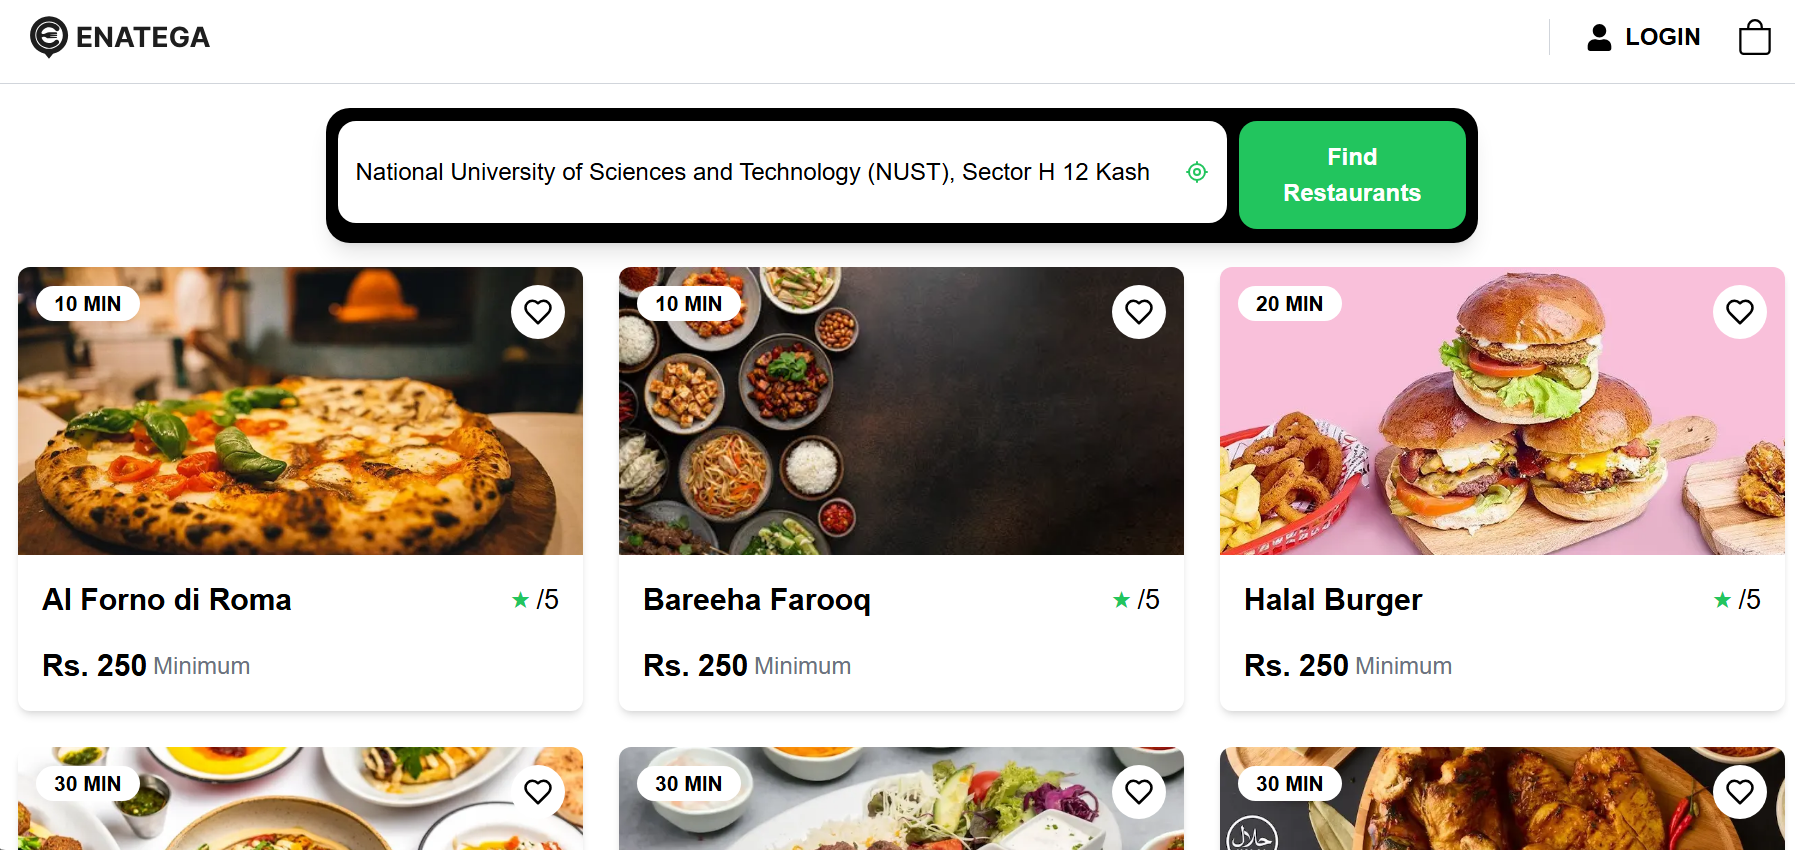
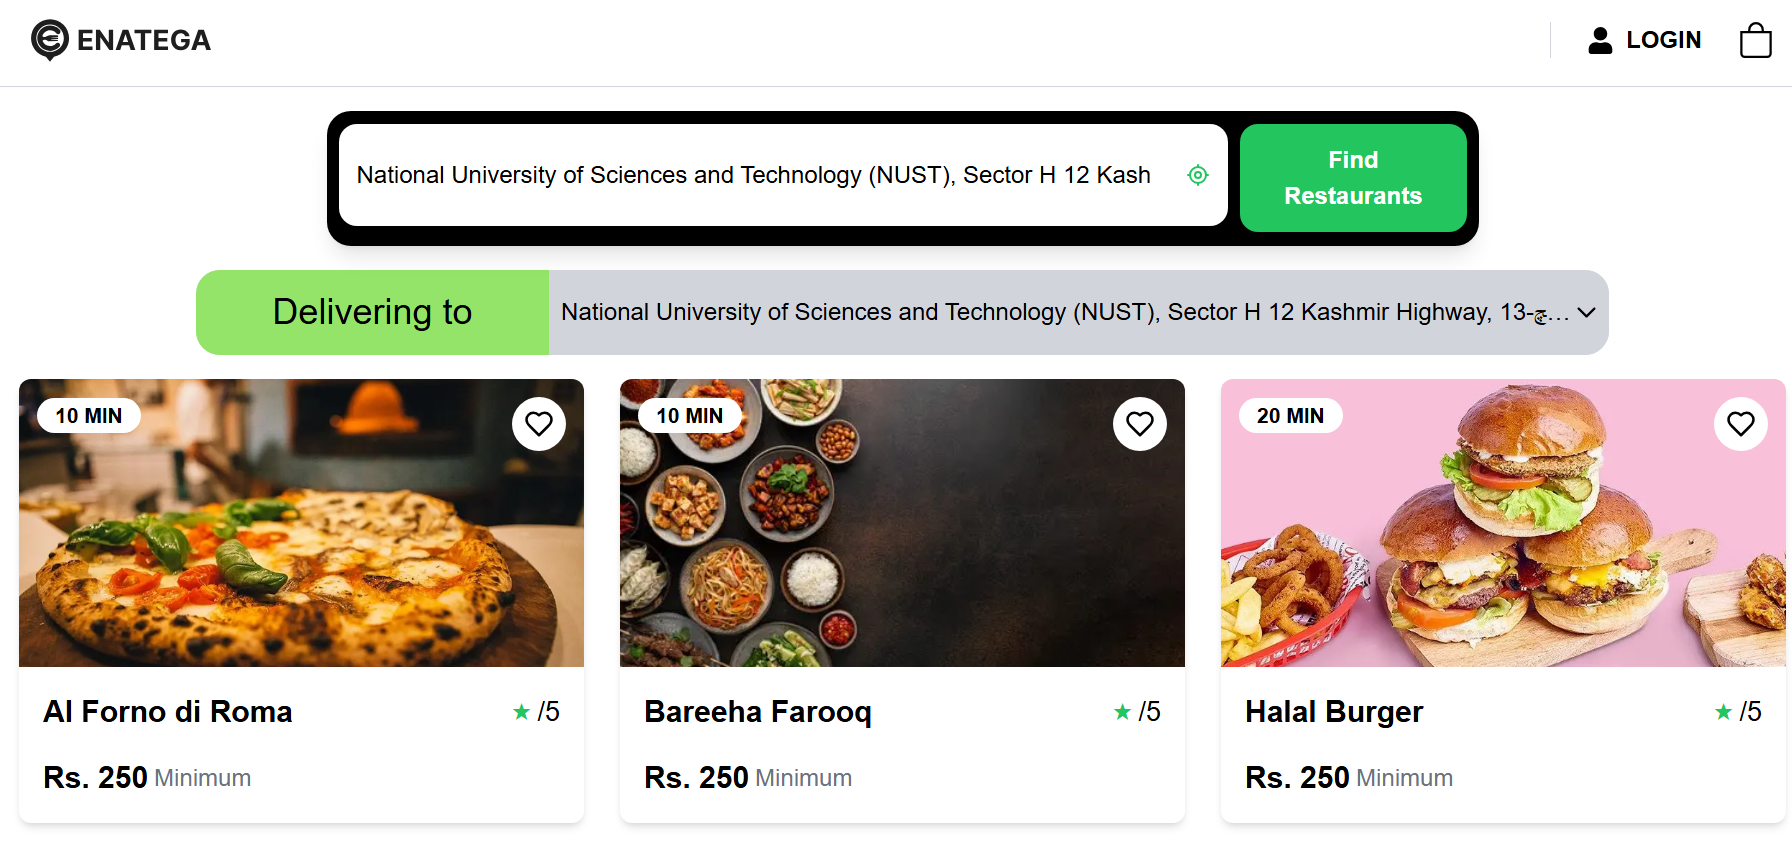
Job task

diff --git a/src/app/components/LocationSearch.tsx b/src/app/components/LocationSearch.tsx
@@ -4,7 +4,7 @@ import axios from "axios";
 import Image from "next/image";
 import { TbCurrentLocation } from "react-icons/tb";
 import NearbyResturants from "./NearbyResturants";
-// Ensure the correct import path
+import { Dropdown } from 'primereact/dropdown';
 
 const OPENCAGE_API_KEY = "ff949bcce08d459790ed43412e642ccc";
 
@@ -15,6 +15,7 @@ export default function LocationSearch() {
     lat: null,
     lng: null,
   });
+  const [selectedAddress, setSelectedAddress] = useState(null); // State for selected address
 
   const [fetchTriggered, setFetchTriggered] = useState(false);
   const [dropdownOpen, setDropdownOpen] = useState(false);
@@ -36,6 +37,7 @@ export default function LocationSearch() {
         if (results.length > 0) {
           setAddress(results[0].formatted);
           setCoordinates({ lat: latitude, lng: longitude });
+          setSelectedAddress(results[0].formatted); // Set the fetched address
         }
       } catch (error) {
         console.error("Reverse geocoding error:", error);
@@ -53,49 +55,23 @@ export default function LocationSearch() {
       <div className="relative bg-black h-auto sm:h-[90px] flex flex-col justify-center items-center p-2 rounded-2xl shadow-lg w-full max-w-3xl">
         <div className="md:flex w-[100%] md:flex-row flex flex-col">
           {/* Address Input Field */}
-          <div className='flex w-full mb-1 flex-row' >
-          <input
-            type="text"
-            placeholder="Enter your address"
-            value={address}
-            onChange={(e) => setAddress(e.target.value)}
-            className="flex-grow p-3  rounded-l-xl focus:outline-none text-black"
-          />
+          <div className="flex w-full mb-1 flex-row">
+            <input
+              type="text"
+              placeholder="Enter your address"
+              value={address}
+              onChange={(e) => setAddress(e.target.value)}
+              className="flex-grow p-3 rounded-l-xl focus:outline-none text-black"
+            />
 
-          {/* Get Current Location Button */}
-          <button
-            onClick={getCurrentLocation}
-            className="bg-white  rounded-r-xl  p-3 hover:bg-gray-200 text-black flex items-center justify-center"
-          >
-            <TbCurrentLocation className="text-green-500" />
-          </button>
-          </div>
-
-          {/* Address Dropdown Button */}
-          {/* <div className=" hidden sm:relative">
+            {/* Get Current Location Button */}
             <button
-              onClick={() => setDropdownOpen(!dropdownOpen)}
-              className="bg-white p-3 text-black flex items-center justify-center h-[50px] rounded-r-xl cursor-pointer"
+              onClick={getCurrentLocation}
+              className="bg-white rounded-r-xl p-3 hover:bg-gray-200 text-black flex items-center justify-center"
             >
-              <Image src={'/arrow.png'} alt="Dropdown Icon" width={15} height={24} />
+              <TbCurrentLocation className="text-green-500" />
             </button>
-
-            {/* Dropdown Menu */}
-            {/* {dropdownOpen && (
-              <div className="absolute top-full right-0 w-[300px] bg-white shadow-md rounded mt-1 z-10">
-                {address ? (
-                  <div
-                    className="p-2 text-gray-700 cursor-pointer"
-                    onClick={() => setDropdownOpen(false)}
-                  >
-                    {address}
-                  </div>
-                ) : (
-                  <div className="p-2 text-gray-400">No address available</div>
-                )}
-              </div>
-            )}
-          </div> */} 
+          </div>
 
           {/* Find Restaurants Button */}
           <button
@@ -107,6 +83,20 @@ export default function LocationSearch() {
           </button>
         </div>
       </div>
+
+      {/* Show the Dropdown with the address if it's available */}
+      {selectedAddress && (
+        <div className="card flex  p-0 w-[80%] rounded-2xl h-[10vh] text-black bg-gray-300 justify-content-center w-full mt-4">
+          <div className='w-[35%] text-black bg-[#94e469] text-2xl flex justify-center items-center rounded-l-2xl' >Delivering to</div>
+          <Dropdown
+            value={selectedAddress}
+            onChange={(e) => setSelectedAddress(e.value)}
+            options={[selectedAddress]} // Show only the user's address in the dropdown
+            placeholder="Select your address"
+            className="w-[75%] p-2 rounded-r-2xl text-black flex justify-center items-center bg-gray-300 md:w-14rem"
+          />
+        </div>
+      )}
 
       {/* Pass coordinates and fetchRestaurants to NearbyRestaurants */}
       {coordinates.lat && coordinates.lng && (
